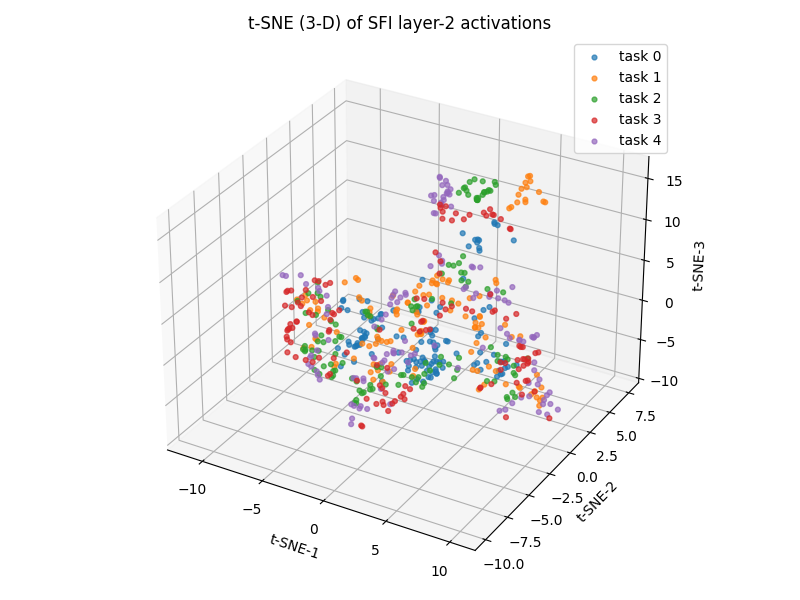
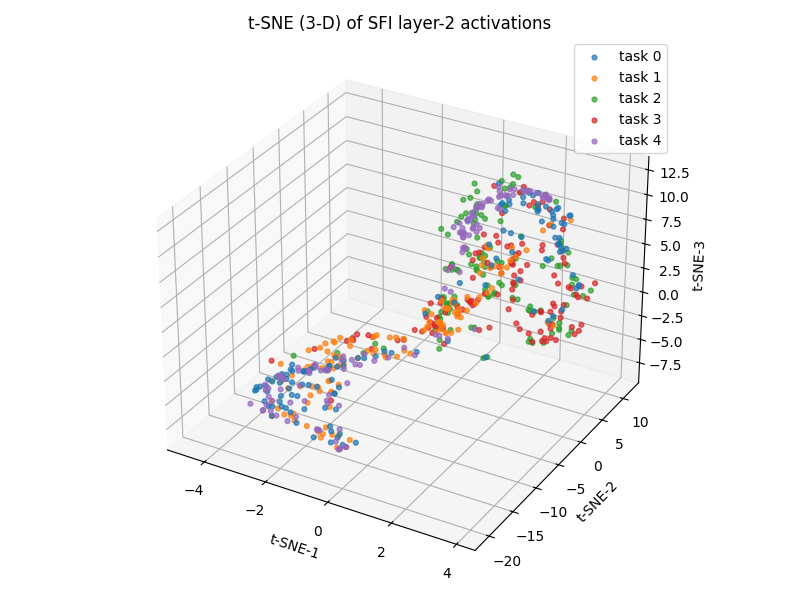
stuff

diff --git a/train_ot.py b/train_ot.py
@@ -2,21 +2,22 @@
 # ------------------------------------------------------------
 import torch, torch.nn as nn, torch.nn.functional as F
 from torch.utils.data import DataLoader, Dataset
-from torchvision.datasets import MNIST
-from torchvision.transforms import ToTensor
+from torchvision.datasets import MNIST, CIFAR10
+from torchvision.transforms import Compose, ToTensor, Grayscale
 import random, numpy as np
 
 # ---------------- hyper-parameters ----------------
 T             = 5          # tasks / permutations
 BATCH         = 128
-REPLAY_MB     = 64
-REPLAY_CAP    = 800
+REPLAY_MB     = 128 #512
+REPLAY_CAP    = 4096*32
 D_CLS, D_TSK  = 128, 10
 K             = T          # one prototype per task
 LR            = 1e-3
 LAM_OT        = 2.0
 LAM_DIV       = 3e-3
 LAM_ORTH      = 1e-2
+LAM_DRIFT     = 1e-2
 device = torch.device('cuda' if torch.cuda.is_available() else 'cpu')
 # --------------------------------------------------
 
@@ -27,10 +28,97 @@ class PermutedMNIST(Dataset):
         x,y = self.base[idx];  return x.view(-1)[self.perm], y
     def __len__(self): return len(self.base)
 
-base   = MNIST('./data', train=True, download=True, transform=ToTensor())
-perms  = [torch.randperm(784) for _ in range(T)]
-tasks  = [DataLoader(PermutedMNIST(base,p), batch_size=BATCH,
-                     shuffle=True, drop_last=True) for p in perms]
+class PermutedCIFAR10(Dataset):
+    def __init__(self, base, perm): self.base, self.perm = base, perm
+    def __getitem__(self, idx):
+        x,y = self.base[idx];  return x.view(-1)[self.perm], y
+    def __len__(self): return len(self.base)
+
+class SplitMNIST(Dataset):
+    """Like PermutedMNIST but only keeps a subset of classes, returns labels 0–9."""
+    def __init__(self, original_dataset, classes):
+        """
+        original_dataset: torchvision.datasets.MNIST instance
+        classes: iterable of digit labels to include, e.g. [0,1]
+        """
+        self.dataset = original_dataset
+        # ensure classes is a Python set of ints
+        self.classes = set(int(c) for c in classes)
+        # collect indices whose labels are in `classes`
+        self.indices = [
+            idx for idx, (_, label) in enumerate(self.dataset)
+            if int(label) in self.classes
+        ]
+        if not self.indices:
+            raise ValueError(f"No examples found for classes {classes}")
+
+    def __len__(self):
+        return len(self.indices)
+
+    def __getitem__(self, index):
+        img, label = self.dataset[self.indices[index]]
+        # flatten exactly like PermutedMNIST
+        flat = img.view(-1)       # → Tensor of shape [784]
+        return flat, label
+
+class SplitCIFAR10(Dataset):
+    """Like PermutedMNIST but only keeps a subset of classes, returns labels 0–9."""
+    def __init__(self, original_dataset, classes):
+        """
+        original_dataset: torchvision.datasets.MNIST instance
+        classes: iterable of digit labels to include, e.g. [0,1]
+        """
+        self.dataset = original_dataset
+        # ensure classes is a Python set of ints
+        self.classes = set(int(c) for c in classes)
+        # collect indices whose labels are in `classes`
+        self.indices = [
+            idx for idx, (_, label) in enumerate(self.dataset)
+            if int(label) in self.classes
+        ]
+        if not self.indices:
+            raise ValueError(f"No examples found for classes {classes}")
+
+    def __len__(self):
+        return len(self.indices)
+
+    def __getitem__(self, index):
+        img, label = self.dataset[self.indices[index]]
+        # flatten exactly like PermutedMNIST
+        flat = img.view(-1)       # → Tensor of shape [784]
+        return flat, label
+
+PERMUTED = False
+isMNIST = True
+
+base = MNIST('./data', train=True, download=True, transform=ToTensor())
+
+transform = Compose([
+    Grayscale(num_output_channels=1),  # Convert RGB to grayscale
+    ToTensor()
+])
+cifar_base = CIFAR10(root='./data', train=True, download=True, transform=transform)
+
+if isMNIST:
+    if PERMUTED:
+        perms  = [torch.randperm(784) for _ in range(T)]
+        tasks  = [DataLoader(PermutedMNIST(base,p), batch_size=BATCH,
+                            shuffle=True, drop_last=True) for p in perms]
+    else:
+        temp = torch.randperm(10)
+        perms  = [[temp[i], temp[i+1]] for i in range(0, len(temp)-1, 2)]
+        tasks  = [DataLoader(SplitMNIST(base,p), batch_size=BATCH,
+                            shuffle=True, drop_last=True) for p in perms]
+else:
+    if PERMUTED:
+        perms  = [torch.randperm(1024) for _ in range(T)]
+        tasks  = [DataLoader(PermutedCIFAR10(cifar_base,p), batch_size=BATCH,
+                            shuffle=True, drop_last=True) for p in perms]
+    else:
+        temp = torch.randperm(10)
+        perms  = [[temp[i], temp[i+1]] for i in range(0, len(temp)-1, 2)]
+        tasks  = [DataLoader(SplitCIFAR10(cifar_base,p), batch_size=BATCH,
+                                shuffle=True, drop_last=True) for p in perms]
 
 # ---------------- replay buffer -------------------
 class ReplayBuf:
@@ -69,46 +157,87 @@ class OTHead(nn.Module):
         self.prototypes = nn.Parameter(torch.randn(K, d_t))
         nn.init.normal_(self.prototypes)
         self.delta = delta
-    def forward(self, z_t, replay_z=None, *, tau=0.5, eps=0.1, beta=0.9):
+    # def forward(self, z_t, replay_z=None, *, tau=0.5, eps=0.1, alpha=0.7, beta=0.9):
+    #     proto_n = F.normalize(self.prototypes, dim=1)             # [K,d]
+    #     scores  = z_t @ proto_n.T / tau                            # [B,K]
+    #     proto_loss = 0
+    #     with torch.no_grad():
+    #         Q = F.softmax(scores / eps, dim=1)                   # [B,K]
+    #         bs = Q.sum(0) + 1e-9
+    #         # mean = (mask.T @ z_t) / (mask.sum(0) + 1e-9).unsqueeze(1)
+    #         mean = (Q.T @ z_t) / bs.unsqueeze(1)                   # [K,d]
+
+    #         if replay_z is not None:
+    #             replay_scores = replay_z @ proto_n.T / tau
+    #             Qr = F.softmax(replay_scores / eps, dim=1)
+    #             bs_r = Qr.sum(0) + 1e-9
+    #             mean_r = (Qr.T @ replay_z) / bs_r.unsqueeze(1)
+    #             mean = alpha * mean + (1 - alpha) * mean_r         # weighted combination
+
+    #         pbefore = self.prototypes.data.clone()
+    #         self.prototypes.data.mul_(beta).add_((1 - beta) * mean)
+    #         self.prototypes.data = F.normalize(self.prototypes.data, dim=1)
+    #         proto_loss += F.mse_loss(self.prototypes.data, pbefore)
+
+    #     # losses
+    #     ot_loss  = -(Q * F.log_softmax(scores, dim=1)).sum(1).mean()
+    #     cos_m    = torch.matmul(proto_n, proto_n.T)
+    #     div_loss = F.relu((cos_m - self.delta) *
+    #                     torch.triu(torch.ones_like(cos_m), diagonal=1)).mean()
+    #     idx = Q.argmax(1)
+    #     hard_centroid = self.prototypes[idx]                       # [B,d]
+
+    #     return ot_loss, div_loss, proto_loss, hard_centroid
+    def forward(self, z_t, replay_z=None, *, tau=0.5, eps=0.1, alpha=0.5, beta=0.1):
         proto_n = F.normalize(self.prototypes, dim=1)          # [K,d]
-        scores  = z_t @ proto_n.T / tau                        # [B,K]
+        scores  = z_t @ proto_n.T / tau
+        pbefore = self.prototypes.data.clone()                       # [B,K]
         with torch.no_grad():
-            Q    = sinkhorn(scores, eps)                       # [B,K]
-            bs   = Q.sum(0)+1e-9
+            sim = F.cosine_similarity(z_t.unsqueeze(1), proto_n.unsqueeze(0), dim=2) #sinkhorn(scores, eps)    
+            Q = F.softmax(sim / tau, dim=1)                   # [B,K]
+            bs = Q.sum(0)+1e-9
             mean = (Q.T @ z_t) / bs.unsqueeze(1)
             if replay_z is not None:
-                Qr   = sinkhorn(replay_z @ proto_n.T / tau, eps)
+                sim_r = F.cosine_similarity(replay_z.unsqueeze(1), proto_n.unsqueeze(0), dim=2)
+                Qr   = F.softmax(sim_r / tau, dim=1) # sinkhorn(replay_z @ proto_n.T / tau, eps)
                 bs_r = Qr.sum(0)+1e-9
                 mean_r = (Qr.T @ replay_z)/bs_r.unsqueeze(1)
-                mean   = 0.5*mean + 0.5*mean_r
+                mean   = alpha*mean + (1-alpha)*mean_r
             self.prototypes.data.mul_(beta).add_((1-beta)*mean)
             self.prototypes.data = F.normalize(self.prototypes.data, dim=1)
+        proto_loss = F.mse_loss(pbefore, self.prototypes.data)
         # losses
         ot_loss  = -(Q * F.log_softmax(scores,1)).sum(1).mean()
         cos_m    = torch.matmul(proto_n, proto_n.T)
         div_loss = F.relu((cos_m-self.delta)
                           * torch.triu(torch.ones_like(cos_m),1)).mean()
-        idx          = Q.argmax(1)                             # [B]
+        idx = Q.argmax(1)                             # [B]
         hard_centroid= self.prototypes[idx]                    # [B,d]
 
-        return ot_loss, div_loss, hard_centroid
+        return ot_loss, div_loss, hard_centroid, proto_loss
 
 # ---------------- full model ----------------------
 class OTModel(nn.Module):
     def __init__(self):
         super().__init__()
-        self.backbone = nn.Sequential(
-            nn.Linear(784,256), nn.ReLU(inplace=True),
-            nn.Linear(256, D_CLS+D_TSK))
+        #
+        if isMNIST:
+            self.backbone = nn.Sequential(
+                nn.Linear(784,256), nn.ReLU(inplace=True),
+                nn.Linear(256, D_CLS+D_TSK))
+        else:
+            self.backbone = nn.Sequential(
+                nn.Linear(1024,256), nn.ReLU(inplace=True),
+                nn.Linear(256, D_CLS+D_TSK))
         self.task_head = OTHead(D_TSK, K)
         self.classifier= nn.Linear(D_CLS+D_TSK, 10)
     def forward(self, x, replay_z=None):
         z       = self.backbone(x)
         z_cls   = F.normalize(z[:,:D_CLS], dim=1)
         z_task  = F.normalize(z[:, D_CLS:], dim=1)
-        ot, div, cent = self.task_head(z_task, replay_z)
+        ot, div, cent, proto = self.task_head(z_task, replay_z)
         logits  = self.classifier(torch.cat([z_cls, cent.detach()], 1))
-        return logits, ot, div
+        return logits, ot, div, proto
 
 # ---------------- accuracy helper -----------------
 @torch.no_grad()
@@ -116,7 +245,7 @@ def accuracy(model, loader):
     model.eval(); correct=n=0
     for x,y in loader:
         x,y = x.to(device), y.to(device)
-        log,_ ,_, = model(x)
+        log,_,_,_ = model(x)
         correct += (log.argmax(1)==y).sum().item();  n += y.size(0)
     return 100*correct/n
 
@@ -128,7 +257,7 @@ def train_task(model, loader, optim, epochs=1):
             x,y = x.to(device), y.to(device)
 
             # replay embeddings (no grad)
-            xr,_ = replay.sample(REPLAY_MB)
+            xr,yr = replay.sample(REPLAY_MB)
             if xr is not None:
                 with torch.no_grad():
                     z_r = model.backbone(xr)[:, -D_TSK:]
@@ -136,9 +265,13 @@ def train_task(model, loader, optim, epochs=1):
             else:
                 z_r = None
 
-            log, ot, div = model(x, replay_z=z_r)
+            log, ot, div, proto = model(x, replay_z=z_r)
             cls = F.cross_entropy(log, y)
-            loss = (cls + LAM_OT*ot + LAM_DIV*div)
+            loss = (cls + LAM_OT*ot + LAM_DIV*div + LAM_DRIFT*proto)
+            # ADDED
+            if xr is not None:
+                logits_r, ot_r, div_r, proto_r = model(xr, replay_z=None)
+                loss += F.cross_entropy(logits_r, yr) + LAM_OT*ot_r + LAM_DIV*div_r + LAM_DRIFT*proto_r
 
             optim.zero_grad(); loss.backward(); optim.step()
             replay.add_batch(x.detach(), y.detach())
@@ -150,10 +283,15 @@ optim = torch.optim.Adam(model.parameters(), lr=LR)
 print("Training with centroid classifier and replay buffer\n")
 for t, loader in enumerate(tasks):
     print(f"=== Task {t} ===")
+    if not PERMUTED:
+        print(perms[t])
     train_task(model, loader, optim)
 
     for s in range(t+1):
-        print(f"  Eval task {s}: {accuracy(model, tasks[s]):5.2f}%")
+        if PERMUTED:
+            print(f"  Eval task {s}: {accuracy(model, tasks[s]):5.2f}%")
+        else:
+            print(f"  Eval task {s}, {perms[s]}: {accuracy(model, tasks[s]):5.2f}%")
 
 
 # -----------------------------------------------------------

diff --git a/train_sfi.py b/train_sfi.py
@@ -137,6 +137,7 @@ def sliced_wasserstein(h_cur, h_froz, n_projs=10):
             torch.sort(p_froz,0)[0]
         ))
     return loss / n_projs
+
 class PermutedMNIST(Dataset):
     """Creates a permuted MNIST task with a fixed pixel permutation."""
     def __init__(self, original_dataset, permutation):
@@ -149,6 +150,33 @@ class PermutedMNIST(Dataset):
     
     def __len__(self):
         return len(self.dataset)
+
+class SplitMNIST(Dataset):
+    """Like PermutedMNIST but only keeps a subset of classes, returns labels 0–9."""
+    def __init__(self, original_dataset, classes):
+        """
+        original_dataset: torchvision.datasets.MNIST instance
+        classes: iterable of digit labels to include, e.g. [0,1]
+        """
+        self.dataset = original_dataset
+        # ensure classes is a Python set of ints
+        self.classes = set(int(c) for c in classes)
+        # collect indices whose labels are in `classes`
+        self.indices = [
+            idx for idx, (_, label) in enumerate(self.dataset)
+            if int(label) in self.classes
+        ]
+        if not self.indices:
+            raise ValueError(f"No examples found for classes {classes}")
+
+    def __len__(self):
+        return len(self.indices)
+
+    def __getitem__(self, index):
+        img, label = self.dataset[self.indices[index]]
+        # flatten exactly like PermutedMNIST
+        flat = img.view(-1)       # → Tensor of shape [784]
+        return flat, label
 
 
 
@@ -401,14 +429,23 @@ train_dataset = MNIST(root='./data', train=True, download=True, transform=ToTens
 
 # Create T tasks (each with a random permutation)
 T = 5# Number of tasks
+PERMUTED = False
 tasks = []
 perms = [] 
-for _ in range(T):
-    perm = torch.randperm(784)  # Random pixel permutation
-    perms.append(perm)
-    task_dataset = PermutedMNIST(train_dataset, perm)
-    task_loader = DataLoader(task_dataset, batch_size=128, shuffle=True, drop_last = True)
-    tasks.append(task_loader)
+if PERMUTED:
+    for _ in range(T):
+        perm = torch.randperm(784)  # Random pixel permutation
+        perms.append(perm)
+        task_dataset = PermutedMNIST(train_dataset, perm)
+        task_loader = DataLoader(task_dataset, batch_size=128, shuffle=True, drop_last = True)
+        tasks.append(task_loader)
+else:
+    for i in range(T):
+        perm = torch.randperm(10)[:2]  # Random pixel permutation
+        perms.append(perm)
+        task_dataset = SplitMNIST(train_dataset, perm)
+        task_loader = DataLoader(task_dataset, batch_size=128, shuffle=True, drop_last = True)
+        tasks.append(task_loader)
 
 # Initialize model
 device = torch.device('cuda' if torch.cuda.is_available() else 'cpu')
@@ -591,7 +628,7 @@ model.train();
 tasks = []
 for i in range(T):
     perm = perms[i]
-    task_dataset = PermutedMNIST(train_dataset, perm)
+    task_dataset = SplitMNIST(train_dataset, perm) #PermutedMNIST(train_dataset, perm)
     task_loader = DataLoader(task_dataset, batch_size=128, shuffle=True, drop_last = True)
     tasks.append(task_loader)
 # --- after training ---
